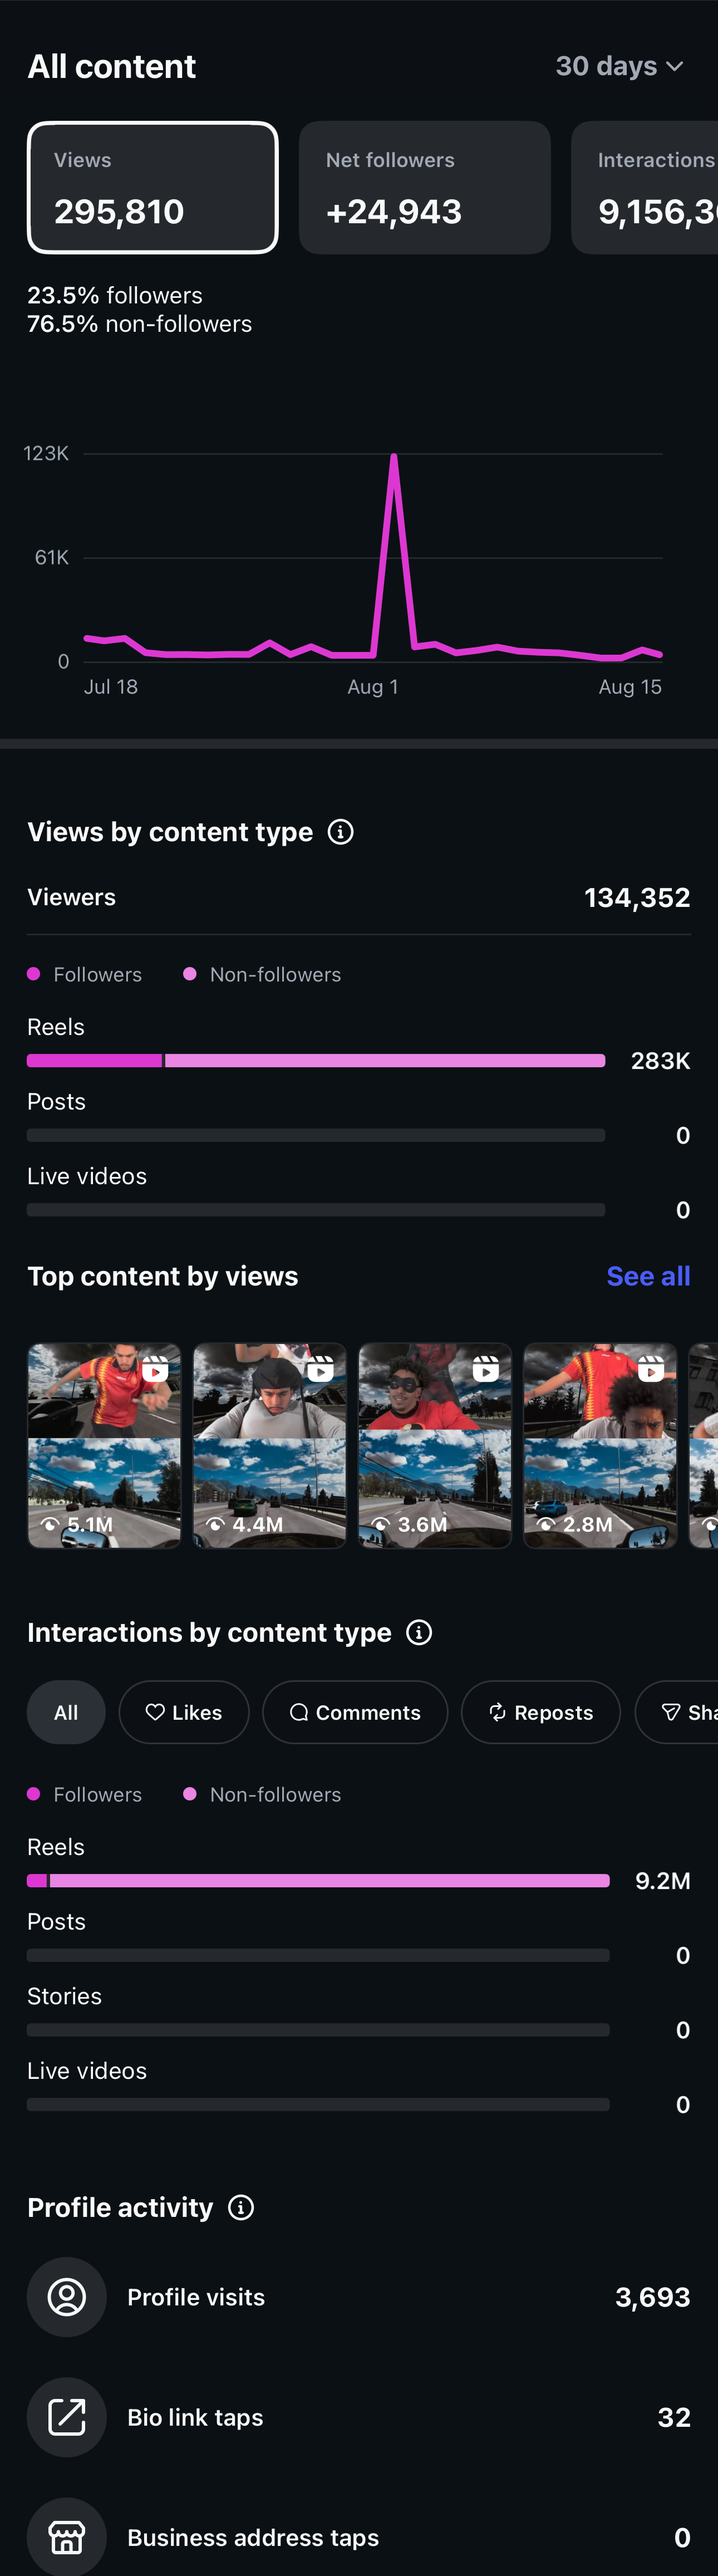
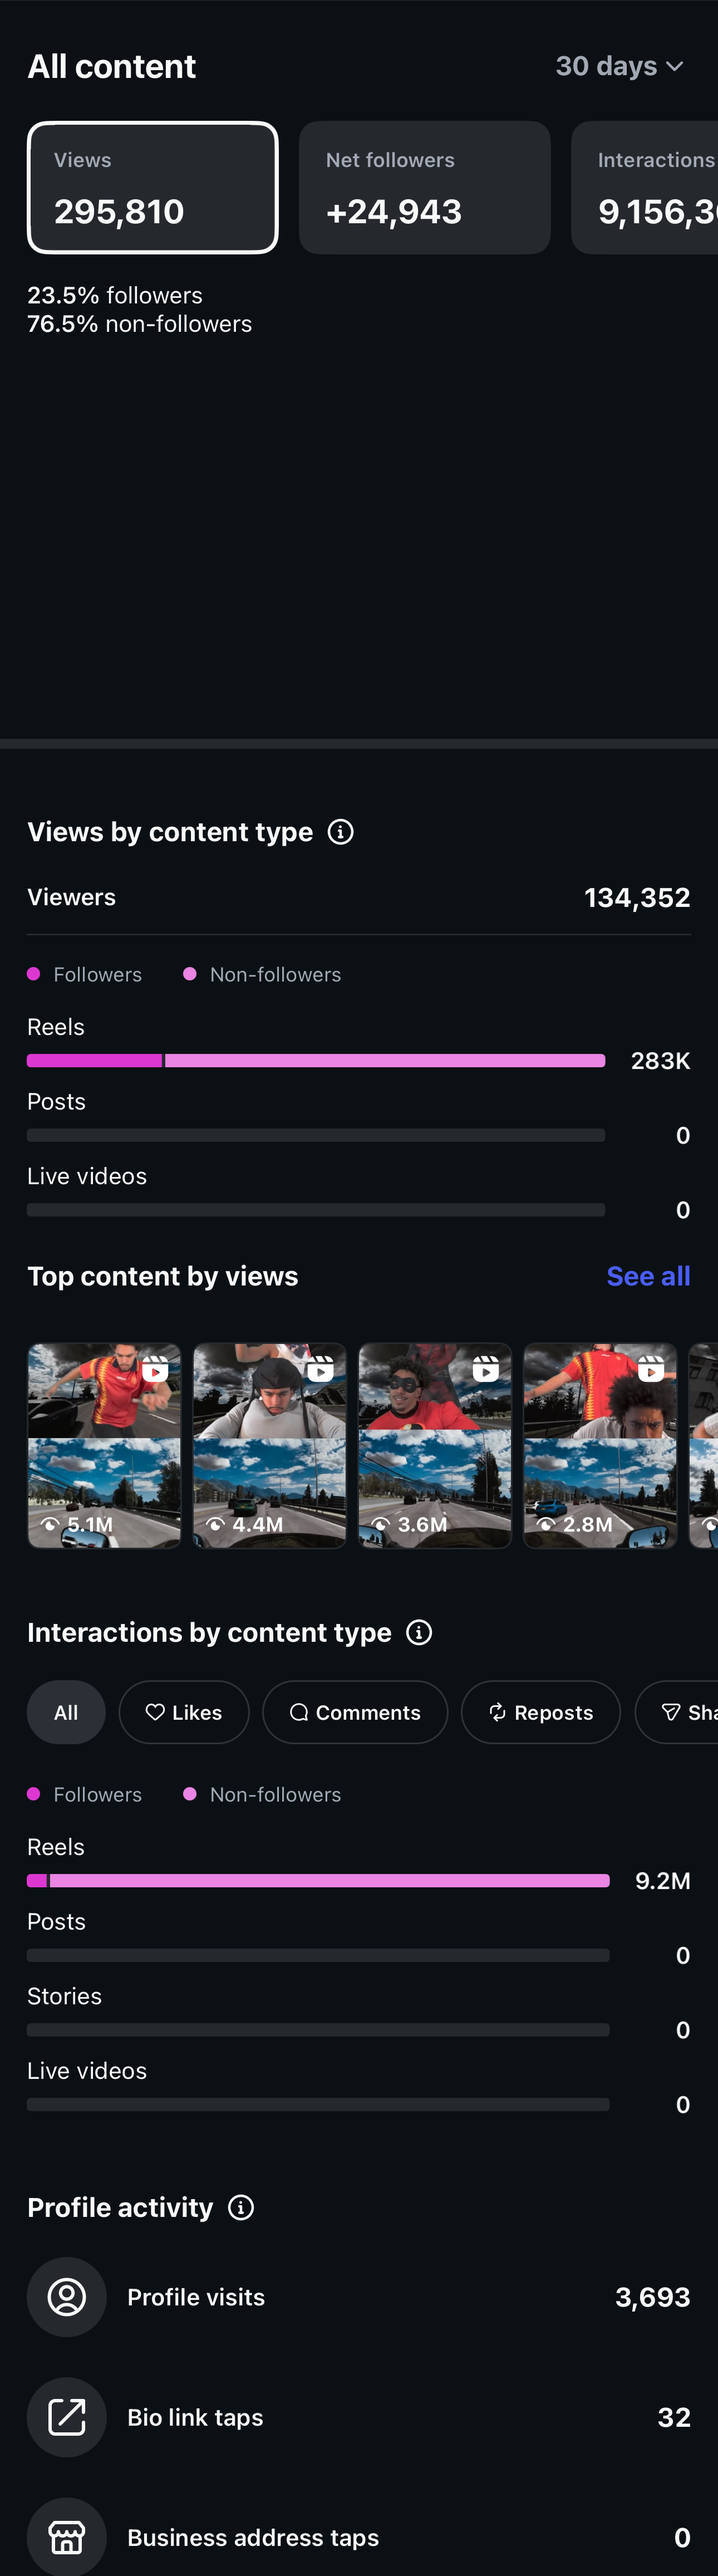
Overlay a live Insights Views chart so daily values can be edited without new screenshots.

Changed region(s): [[0.124, 0.1556, 0.5891, 0.2801], [0.5891, 0.249, 0.9302, 0.2801]]

diff --git a/new.html b/new.html
@@ -11,13 +11,14 @@
 <meta name="mobile-web-app-capable" content="yes">
 <meta name="apple-mobile-web-app-status-bar-style" content="black-translucent">
 <meta name="theme-color" content="#000000">
-<link rel="manifest" href="manifest_new.json?v=44">
-<link rel="apple-touch-icon" href="icon.png?v=44">
+<link rel="manifest" href="manifest_new.json?v=45">
+<link rel="apple-touch-icon" href="icon.png?v=45">
 <!-- native iOS launch images: iOS shows these INSTANTLY on tap (before our HTML
      loads), killing the system gray phase. Pixel-identical to the in-page splash. -->
-<link rel="apple-touch-startup-image" media="screen and (device-width: 430px) and (device-height: 932px) and (-webkit-device-pixel-ratio: 3) and (orientation: portrait)" href="launch_1290x2796.png?v=44">
-<link rel="apple-touch-startup-image" media="screen and (device-width: 393px) and (device-height: 852px) and (-webkit-device-pixel-ratio: 3) and (orientation: portrait)" href="launch_1179x2556.png?v=44">
+<link rel="apple-touch-startup-image" media="screen and (device-width: 430px) and (device-height: 932px) and (-webkit-device-pixel-ratio: 3) and (orientation: portrait)" href="launch_1290x2796.png?v=45">
+<link rel="apple-touch-startup-image" media="screen and (device-width: 393px) and (device-height: 852px) and (-webkit-device-pixel-ratio: 3) and (orientation: portrait)" href="launch_1179x2556.png?v=45">
 <title>Instagram</title>
+<script src="config.js?v=45"></script>
 <script>
 if('serviceWorker' in navigator){
   navigator.serviceWorker.register('sw.js',{updateViaCache:'none'}).then(r=>r.update());
@@ -62,22 +63,27 @@ if('serviceWorker' in navigator){
   /* insights: header + content stacked; the whole screen scrolls naturally */
   #insHeader{position:relative;width:100%;z-index:5;}
   #insHeader img{display:block;width:100%;}
-  #insContent{width:100%;background:#0d1115;}
+  #insContent{position:relative;width:100%;background:#0d1115;}
   #insContent img{display:block;width:100%;}
+  /* Overview line chart overlay — sits on the painted graph hole in the screenshot.
+     Percents are of insights_overview_full.png (1290×4627): y 790–1320. */
+  #viewsGraph{position:absolute;left:0;width:100%;top:17.0733%;height:11.4545%;
+              z-index:4;pointer-events:none;}
+  #viewsGraph svg{width:100%;height:100%;display:block;}
   #insLoading{position:fixed;inset:0;z-index:10;background:#0d1115;display:none;}
   #insLoading img{display:block;width:100%;}
 
   /* interactions: pinned header (safe-area padding, tiled real-bg strip - the /new1
      pattern) + stitched content + swipe-snap Audience carousel */
   #intHdr{position:sticky;top:0;z-index:10;padding-top:env(safe-area-inset-top,0px);
-          background:#0c1115 url(screens/n_int_hdr_bg.png?v=44) repeat-y;background-size:100% 3px;}
+          background:#0c1115 url(screens/n_int_hdr_bg.png?v=45) repeat-y;background-size:100% 3px;}
   #intHdr img{display:block;width:100%;}
   /* carousel: two snap stops (Top cities at 0, Top countries at D=1066/1290 of the
      viewport). Drag and release -> the card settles into place; ends clamp. */
   #audSnap{width:100%;overflow-x:auto;overflow-y:hidden;scroll-snap-type:x mandatory;
            -webkit-overflow-scrolling:touch;background:#0c1115;}
   #audTrack{width:182.6357%;display:flex;aspect-ratio:2356/685;
-            background:url(screens/n_aud_strip.png?v=44) no-repeat;background-size:100% 100%;}
+            background:url(screens/n_aud_strip.png?v=45) no-repeat;background-size:100% 100%;}
   #audTrack .sA{width:45.2462%;scroll-snap-align:start;}
   #audTrack .sB{width:54.7538%;scroll-snap-align:start;}
 </style>
@@ -89,7 +95,7 @@ if('serviceWorker' in navigator){
     <!-- HOME -->
     <div class="screen active" id="s-home">
       <div class="sheet">
-        <img src="screens/n_home.png?v=44">
+        <img src="screens/n_home.png?v=45">
         <div class="hot" style="left:80%;top:89%;width:20%;height:9%" onclick="goProfile()"></div>
       </div>
     </div>
@@ -97,7 +103,7 @@ if('serviceWorker' in navigator){
     <!-- PROFILE -->
     <div class="screen navpad" id="s-profile">
       <div class="sheet">
-        <img src="screens/n_profile.png?v=44">
+        <img src="screens/n_profile.png?v=45">
         <div class="hot" style="left:3%;top:36%;width:94%;height:7%" onclick="goDashboard()"></div>
       </div>
     </div>
@@ -105,7 +111,7 @@ if('serviceWorker' in navigator){
     <!-- DASHBOARD -->
     <div class="screen" id="s-dashboard">
       <div class="sheet">
-        <img id="dashImg" src="screens/n_dash.png?v=44">
+        <img id="dashImg" src="screens/n_dash.png?v=45">
         <!-- Views row -> insights. This capture has no Interactions row
              (Views / New followers / Content). Extra rows stay unwired. -->
         <div class="hot" style="left:0;top:17.8%;width:100%;height:4.8%" onclick="goInsights()"></div>
@@ -115,11 +121,11 @@ if('serviceWorker' in navigator){
     <!-- INTERACTIONS -->
     <div class="screen navpad" id="s-interactions">
       <div id="intHdr">
-        <img src="screens/n_int_header.png?v=44">
+        <img src="screens/n_int_header.png?v=45">
         <div class="hot" style="left:0;top:0;width:16%;height:58%" onclick="goBackDash()"></div>
       </div>
       <div class="sheet">
-        <img src="screens/n_int_top.png?v=44">
+        <img src="screens/n_int_top.png?v=45">
       </div>
       <div id="audSnap">
         <div id="audTrack"><div class="sA"></div><div class="sB"></div></div>
@@ -130,12 +136,15 @@ if('serviceWorker' in navigator){
     <!-- INSIGHTS -->
     <div class="screen" id="s-insights">
       <div id="insHeader">
-        <img id="himg" src="insights_overview_header2.png?v=44">
+        <img id="himg" src="insights_overview_header2.png?v=45">
         <div class="hot" style="left:0;top:65%;width:33.3%;height:35%" onclick="insTab('overview')"></div>
         <div class="hot" style="left:66.7%;top:65%;width:33.3%;height:35%" onclick="insTab('audience')"></div>
       </div>
-      <div id="insContent"><img id="cimg" src="insights_overview_full.png?v=44"></div>
-      <div id="insLoading"><img id="loadImg" src="screens/ins_spinner_c.png?v=44"></div>
+      <div id="insContent">
+        <img id="cimg" src="insights_overview_full.png?v=45">
+        <div id="viewsGraph"></div>
+      </div>
+      <div id="insLoading"><img id="loadImg" src="screens/ins_spinner_c.png?v=45"></div>
     </div>
 
   </div>
@@ -205,7 +214,7 @@ if('serviceWorker' in navigator){
     document.body.style.background = '#0d1115';
   });
 
-  const ASSET_V = '?v=44';   // bump when any screen image changes (cache-bust mobile)
+  const ASSET_V = '?v=45';   // bump when any screen image changes (cache-bust mobile)
   const el = id => document.getElementById(id);
   // Flow-model navigation: exactly one screen is .active (in normal flow, so it sets
   // the document height and iOS places the safe areas naturally). Transitions overlay
@@ -286,8 +295,61 @@ if('serviceWorker' in navigator){
     if (!pages[p]) return;
     el('himg').src = pages[p][0] + ASSET_V;
     el('cimg').src = pages[p][1] + ASSET_V;
+    const g = el('viewsGraph');
+    if (g) g.style.display = p === 'overview' ? 'block' : 'none';
+    if (p === 'overview') drawViewsGraph();
     if (!silent) el('insContent').scrollTop = 0;
   }
+
+  // Recreate the Insights Overview line chart over the screenshot hole.
+  // Geometry copied from the live IG capture (1290-wide overlay viewBox).
+  function fmtK(n){
+    if (!n) return '0';
+    const k = n / 1000;
+    return (Math.abs(k - Math.round(k)) < 0.05 ? Math.round(k) : k.toFixed(1).replace(/\.0$/, '')) + 'K';
+  }
+  function niceYMax(m){
+    const k = Math.max(m, 1) / 1000;
+    const steps = [1,2,2.5,5,10,15,20,25,30,40,50,60,75,80,100,120,125,150,200,250,500,1000];
+    for (let i = 0; i < steps.length; i++) if (steps[i] >= k) return steps[i] * 1000;
+    return Math.ceil(k) * 1000;
+  }
+  function drawViewsGraph(){
+    const host = el('viewsGraph');
+    const cfg = window.VIEWS_GRAPH;
+    if (!host || !cfg || !cfg.values || !cfg.values.length) return;
+    const vals = cfg.values.map(Number);
+    const ymax = niceYMax(Math.max.apply(null, vals));
+    const labelsX = cfg.labelsX || ['', '', ''];
+    const L = 150, R = 1190, T = 25, B = 399, DATE_Y = 448;
+    const n = vals.length;
+    const pts = vals.map((v, i) => {
+      const x = L + (n === 1 ? 0 : i * (R - L) / (n - 1));
+      const y = B - (Math.max(0, v) / ymax) * (B - T);
+      return x.toFixed(1) + ',' + y.toFixed(1);
+    }).join(' ');
+    const yTicks = [ymax, ymax / 2, 0];
+    const yPos = [T, (T + B) / 2, B];
+    const xPos = [L, (L + R) / 2, R];
+    const xAnchor = ['start', 'middle', 'end'];
+    let grids = '';
+    for (let i = 0; i < 3; i++){
+      grids += '<line x1="'+L+'" x2="'+R+'" y1="'+yPos[i]+'" y2="'+yPos[i]+'" stroke="#24292e" stroke-width="3"/>';
+    }
+    let yLabs = '';
+    for (let i = 0; i < 3; i++){
+      yLabs += '<text x="140" y="'+yPos[i]+'" text-anchor="end" dominant-baseline="middle" fill="#9ba4af" font-size="30" font-family="-apple-system,\'SF Pro Text\',sans-serif">'+fmtK(yTicks[i])+'</text>';
+    }
+    let xLabs = '';
+    for (let i = 0; i < 3; i++){
+      xLabs += '<text x="'+xPos[i]+'" y="'+DATE_Y+'" text-anchor="'+xAnchor[i]+'" fill="#9ba4af" font-size="30" font-family="-apple-system,\'SF Pro Text\',sans-serif">'+labelsX[i]+'</text>';
+    }
+    host.innerHTML = '<svg viewBox="0 0 1290 530" preserveAspectRatio="none" xmlns="http://www.w3.org/2000/svg">'+
+      grids + yLabs + xLabs +
+      '<polyline fill="none" stroke="#dc38d1" stroke-width="11" stroke-linejoin="round" stroke-linecap="round" points="'+pts+'"/>'+
+      '</svg>';
+  }
+  addEventListener('load', drawViewsGraph);
 </script>
 </body>
 </html>

diff --git a/config.js b/config.js
@@ -15,3 +15,14 @@ window.STATS = {
   followers: "223K",
   following: "78",
 };
+
+// Daily Views on Insights Overview (Jul 18 → Aug 16). Edit these and refresh.
+// Y-axis labels (50K / 25K / 0) scale from the max value automatically.
+window.VIEWS_GRAPH = {
+  labelsX: ["Jul 18", "Aug 1", "Aug 15"],
+  values: [
+    4100, 2800, 6200, 5100, 3900, 7800, 11400, 4600, 3400, 9200,
+    28800, 5800, 4700, 4000, 13100, 19800, 7200, 5400, 4500, 9900,
+    48200, 8600, 5700, 4900, 14400, 26300, 6900, 4500, 3700, 5600
+  ],
+};

diff --git a/sw.js b/sw.js
@@ -4,7 +4,7 @@
 // background. If the background refresh finds a NEW app shell, clients are notified
 // so they can silently reload while the splash still covers the screen.
 // Bump CACHE on each deploy; activate purges older caches.
-const CACHE = 'ig-v44';
+const CACHE = 'ig-v45';
 
 self.addEventListener('install', () => self.skipWaiting());
 
